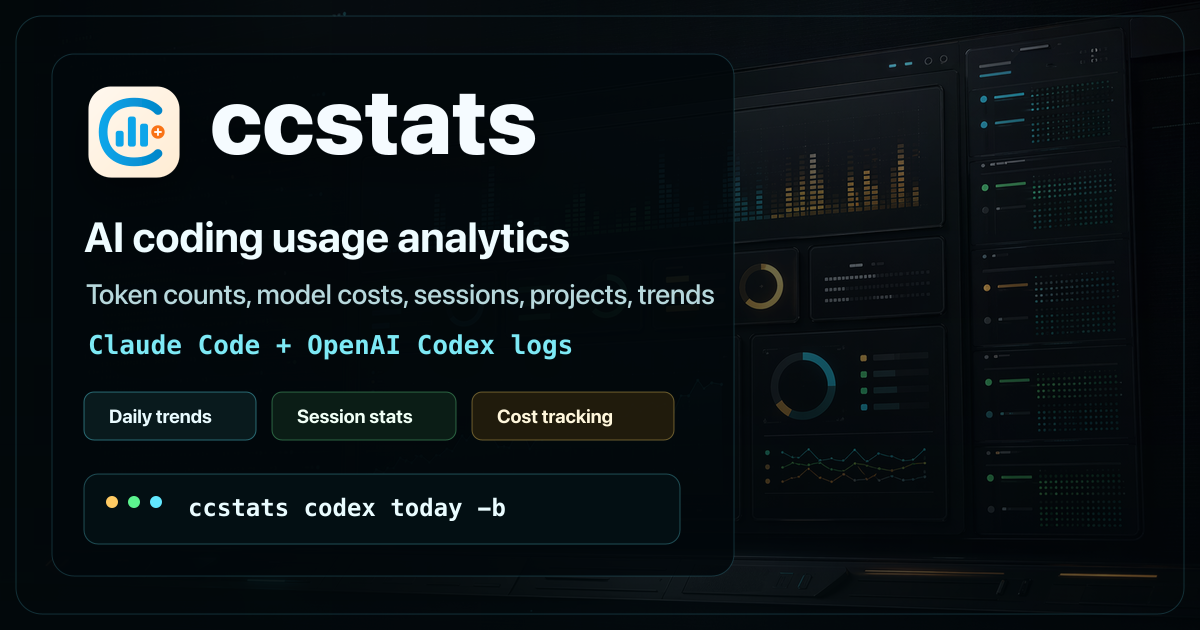
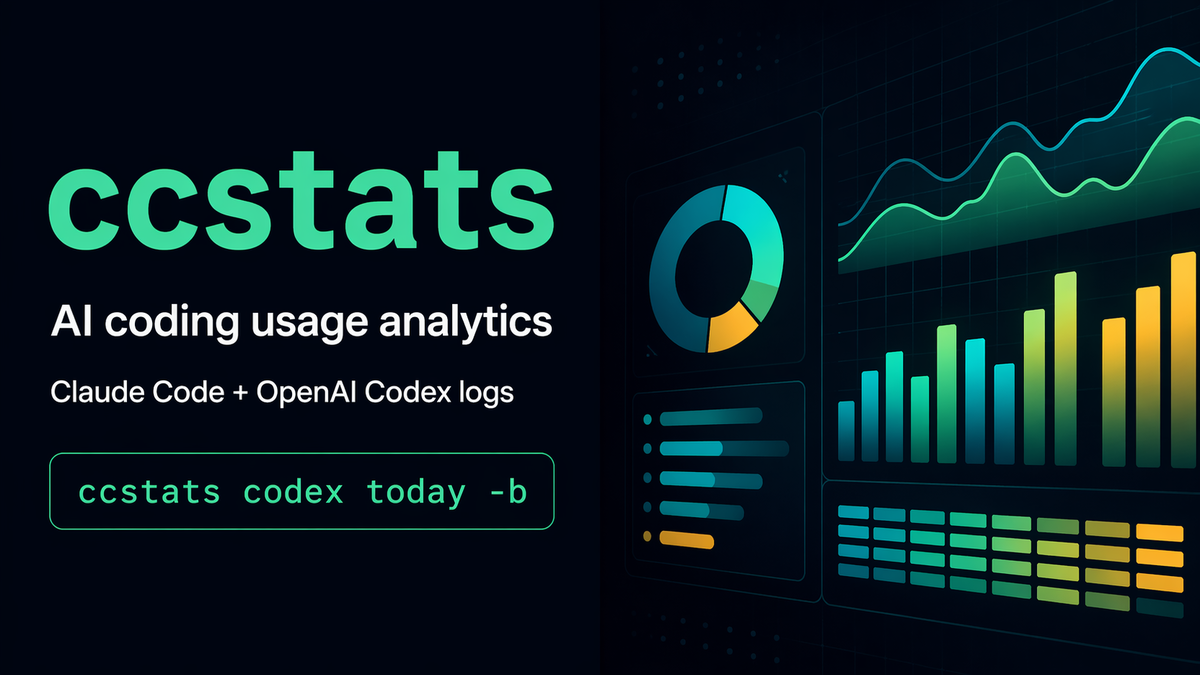
Use an imagegen card with text rendered in the image
The previous README asset used a generated dashboard background plus deterministic SVG text, which made the imagegen output itself look textless. Replace it with a direct imagegen-generated card whose raster content includes the visible ccstats headline, value line, source line, and command. Remove the intermediate textless background and SVG overlay so the branding assets match the intended output.

Constraint: User specifically wanted the generated image itself to contain text

Rejected: Keep the textless background plus SVG overlay | it is technically safer for spelling but does not satisfy the imagegen-output expectation

Confidence: high

Scope-risk: narrow

Directive: If this card is regenerated, visually verify every rendered word before replacing docs/branding/readme-card.png

Tested: visual inspection of generated text; identify confirmed readme-card.png is 1200x675 PNG sRGB; README still references readme-card.png; cargo fmt --check; cargo test

Not-tested: Existing clippy warnings remain unrelated to this image/docs-only change

diff --git a/docs/branding/README.md b/docs/branding/README.md
@@ -14,9 +14,14 @@ Final selected icon is based on concept B in `final/icon.svg`.
 
 ### README Card
 
-- `readme-card.png`: README hero card.
-- `readme-card.svg`: deterministic text and layout overlay used to regenerate the card.
-- `readme-card-background.png`: imagegen-generated dashboard background for the card.
+- `readme-card.png`: imagegen-generated README hero card with rendered text.
+
+Card text:
+
+- `ccstats`
+- `AI coding usage analytics`
+- `Claude Code + OpenAI Codex logs`
+- `ccstats codex today -b`
 
 ### Exported Files
 
